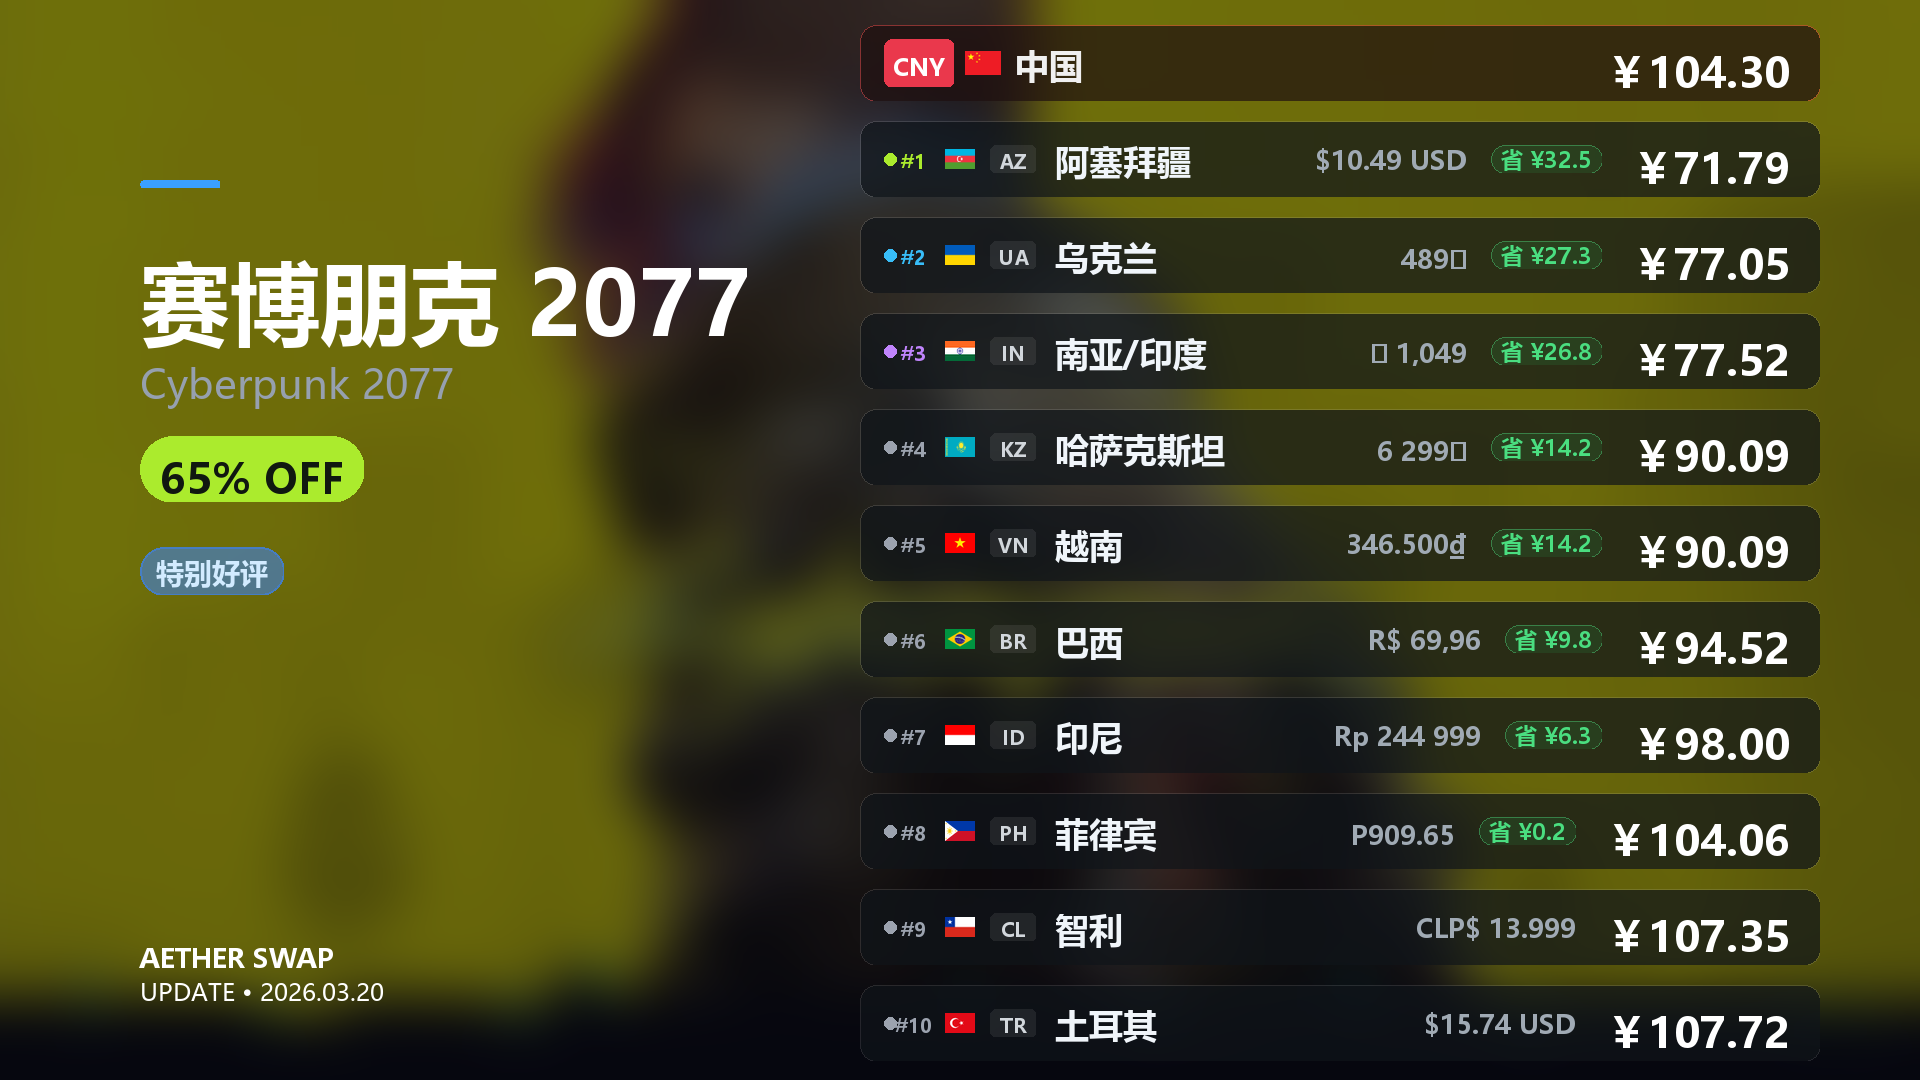
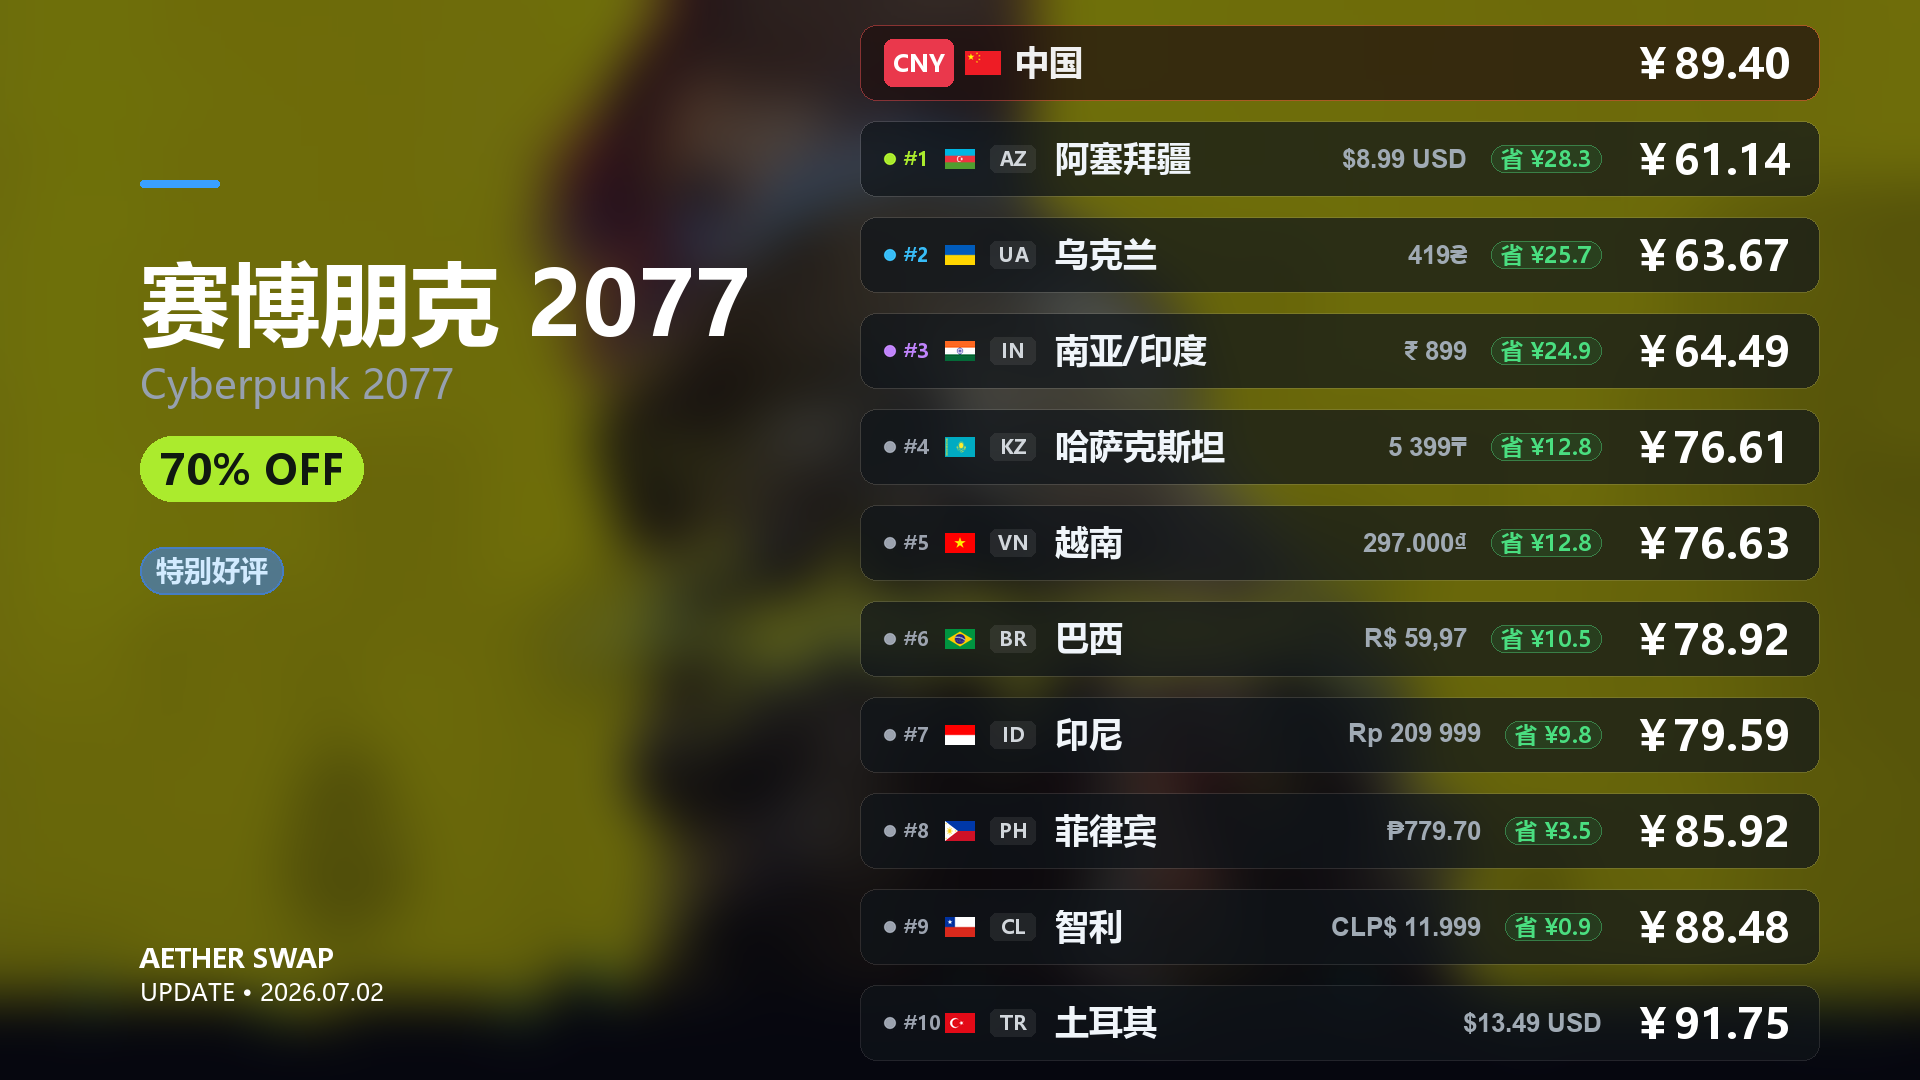
修复折扣卡片渲染细节

diff --git a/app/services/deal_cards.py b/app/services/deal_cards.py
@@ -70,6 +70,29 @@ def _load_font(size: int, bold: bool = False) -> ImageFont.FreeTypeFont:
                 pass
     return ImageFont.load_default()
 
+def _load_currency_font(size: int, bold: bool = False) -> ImageFont.FreeTypeFont:
+    candidates = []
+    if bold:
+        candidates.extend([
+            "C:/Windows/Fonts/arialbd.ttf",
+            "C:/Windows/Fonts/segoeuib.ttf",
+            "/usr/share/fonts/truetype/dejavu/DejaVuSans-Bold.ttf",
+            "/usr/share/fonts/truetype/noto/NotoSansSymbols2-Regular.ttf",
+        ])
+    candidates.extend([
+        "C:/Windows/Fonts/arial.ttf",
+        "C:/Windows/Fonts/segoeui.ttf",
+        "/usr/share/fonts/truetype/dejavu/DejaVuSans.ttf",
+        "/usr/share/fonts/truetype/noto/NotoSansSymbols2-Regular.ttf",
+    ])
+    for path in candidates:
+        if os.path.exists(path):
+            try:
+                return ImageFont.truetype(path, size, index=0)
+            except Exception:
+                pass
+    return _load_font(size, bold=bold)
+
 def _download_banner(url: str) -> Optional[Image.Image]:
     if not url:
         return None
@@ -128,16 +151,41 @@ def draw_rounded_rect(canvas_im: Image.Image, xy, radius: int, fill, outline=Non
     draw_ov = ImageDraw.Draw(overlay)
     
     try:
-        draw_ov.rounded_rectangle((0, 0, w, h), radius=radius, fill=fill, outline=outline, width=width)
+        draw_ov.rounded_rectangle((0, 0, w - 1, h - 1), radius=radius, fill=fill, outline=outline, width=width)
     except AttributeError:
-        draw_ov.rectangle((0, 0, w, h), fill=fill, outline=outline, width=width)
+        draw_ov.rectangle((0, 0, w - 1, h - 1), fill=fill, outline=outline, width=width)
         
     canvas_im.alpha_composite(overlay, (int(x0), int(y0)))
 
+def draw_antialiased_circle(canvas_im: Image.Image, center, radius: int, fill, scale: int = 4):
+    cx, cy = center
+    pad = 2
+    size = (radius * 2 + pad * 2) * scale
+    overlay = Image.new("RGBA", (size, size), (0, 0, 0, 0))
+    draw_hi = ImageDraw.Draw(overlay)
+    bbox = (
+        pad * scale,
+        pad * scale,
+        (pad + radius * 2) * scale - 1,
+        (pad + radius * 2) * scale - 1,
+    )
+    draw_hi.ellipse(bbox, fill=fill)
+    overlay = overlay.resize((size // scale, size // scale), Image.LANCZOS)
+    canvas_im.alpha_composite(overlay, (int(cx - radius - pad), int(cy - radius - pad)))
+
+def get_text_bbox(draw, text, font):
+    if hasattr(draw, "textbbox"):
+        return draw.textbbox((0, 0), text, font=font)
+    if hasattr(draw, "textsize"):
+        w, h = draw.textsize(text, font=font)
+    else:
+        w, h = len(str(text)) * font.size * 0.6, font.size
+    return (0, 0, w, h)
+
 def get_text_size(draw, text, font):
     if hasattr(draw, "textbbox"):
-        bbox = draw.textbbox((0, 0), text, font=font)
-        return bbox[2] - bbox[0], bbox[3] - bbox[1]
+        left, top, right, bottom = get_text_bbox(draw, text, font)
+        return right - left, bottom - top
     elif hasattr(draw, "textsize"):
         return draw.textsize(text, font=font)
     else:
@@ -145,14 +193,18 @@ def get_text_size(draw, text, font):
 
 def draw_text_middle(draw, xy, text, font, fill):
     x, y = xy
-    w, h = get_text_size(draw, text, font)
-    draw.text((x - w / 2, y - h / 2 - 4), text, font=font, fill=fill)
+    left, top, right, bottom = get_text_bbox(draw, text, font)
+    w = right - left
+    h = bottom - top
+    draw.text((x - w / 2 - left, y - h / 2 - top), text, font=font, fill=fill)
     return w, h
 
 def draw_text_left(draw, xy, text, font, fill):
     x, y = xy
-    w, h = get_text_size(draw, text, font)
-    draw.text((x, y - h / 2 - 4), text, font=font, fill=fill)
+    left, top, right, bottom = get_text_bbox(draw, text, font)
+    w = right - left
+    h = bottom - top
+    draw.text((x - left, y - h / 2 - top), text, font=font, fill=fill)
     return w, h
 
 def parse_price_to_rmb(price_str: str) -> float:
@@ -199,10 +251,15 @@ def parse_price_to_rmb(price_str: str) -> float:
         return val * EXRATES.get("CLP", 0.007)
     if "TRY" in s or "TL" in s:
         return val * EXRATES.get("TRY", 0.22)
-    if "P" in price_str and "PHP" not in price_str and "Rp" not in price_str:
+    if "₱" in price_str or "PHP" in s.upper() or ("P" in price_str and "Rp" not in price_str):
         return val * EXRATES.get("PHP", 0.12)
         
     return val 
+
+def format_original_price(region_code: str, price_text: str) -> str:
+    if region_code == "ph":
+        return re.sub(r"^(?:PHP\s*|P\s*)(?=\d)", "₱", price_text.strip(), flags=re.IGNORECASE)
+    return price_text
 
 def wrap_text(draw, text, font, max_width):
     if not text:
@@ -338,7 +395,7 @@ def generate_card(game: SteamDealGame, out_path: str) -> bool:
 
     f_row_reg = _load_font(34, bold=True)     
     f_row_prmb = _load_font(42, bold=True)    
-    f_row_porg = _load_font(26, bold=True)   
+    f_row_porg = _load_currency_font(26, bold=True)
     f_row_save = _load_font(22, bold=True)    
 
     cn_price_str = game.price_cn or ""
@@ -386,16 +443,17 @@ def generate_card(game: SteamDealGame, out_path: str) -> bool:
         draw_rounded_rect(canvas, (PANEL_X, current_y, PANEL_X + PANEL_W, current_y + ROW_H), 
                           radius=16, fill=(15, 20, 25, 180), outline=(255, 255, 255, 30), width=1)
         
-        circ_x = PANEL_X + 24
+        dot_cx = PANEL_X + 30
+        rank_x = PANEL_X + 43
         
         if idx == 0:     dot_clr = (171, 235, 45, 255) 
         elif idx == 1:   dot_clr = (56, 189, 248, 255) 
         elif idx == 2:   dot_clr = (192, 132, 252, 255)
         else:            dot_clr = (156, 163, 175, 255)
         
-        draw.ellipse((circ_x, row_cy - 6, circ_x + 12, row_cy + 6), fill=dot_clr)
+        draw_antialiased_circle(canvas, (dot_cx, row_cy), 6, dot_clr)
         f_rank = _load_font(20, bold=True)
-        draw_text_middle(draw, (circ_x + 30, row_cy), f"#{idx+1}", f_rank, fill=dot_clr)
+        draw_text_left(draw, (rank_x, row_cy), f"#{idx+1}", f_rank, fill=dot_clr)
 
         flag_im = _get_flag(reg["code"])
         if flag_im:
@@ -428,7 +486,7 @@ def generate_card(game: SteamDealGame, out_path: str) -> bool:
             draw_text_middle(draw, (obj_x - bw_s/2, row_cy), save_txt, f_row_save, fill=(74, 222, 128, 255)) 
             obj_x -= bw_s + 24
             
-        orig_str = reg["orig"]
+        orig_str = format_original_price(reg["code"], reg["orig"])
         ow, _ = get_text_size(draw, orig_str, f_row_porg)
         
         orig_color = (74, 222, 128, 255) if "%" in orig_str else (160, 170, 180, 255)